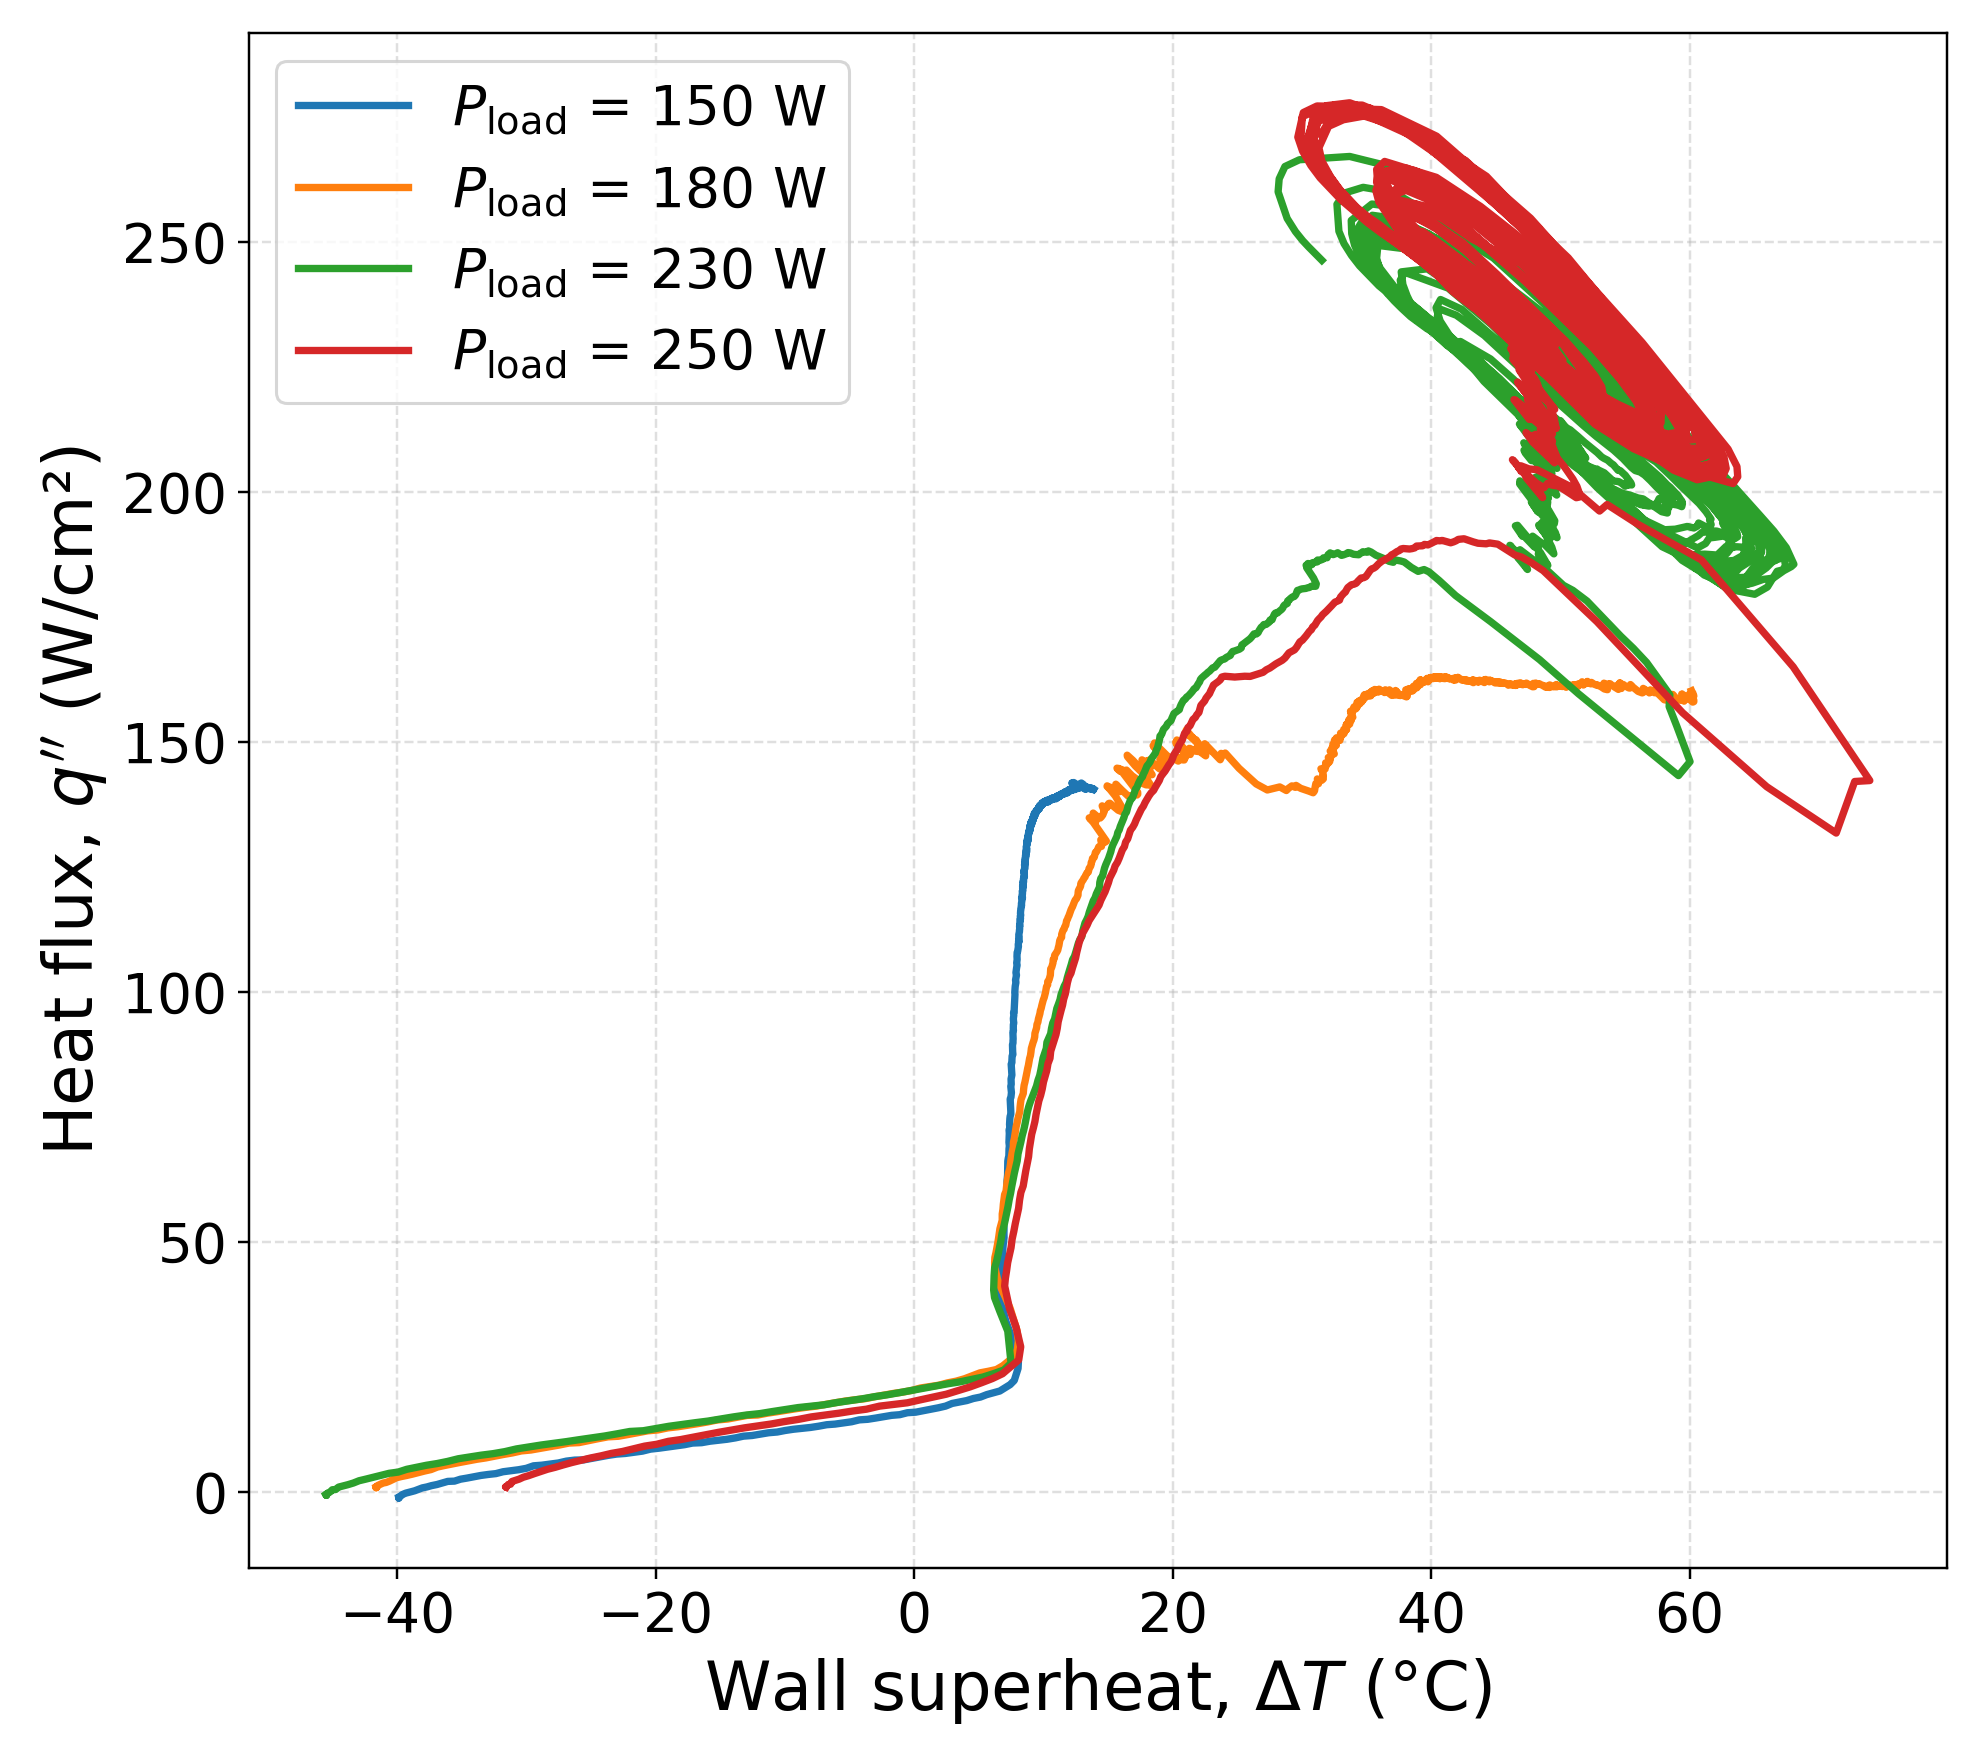
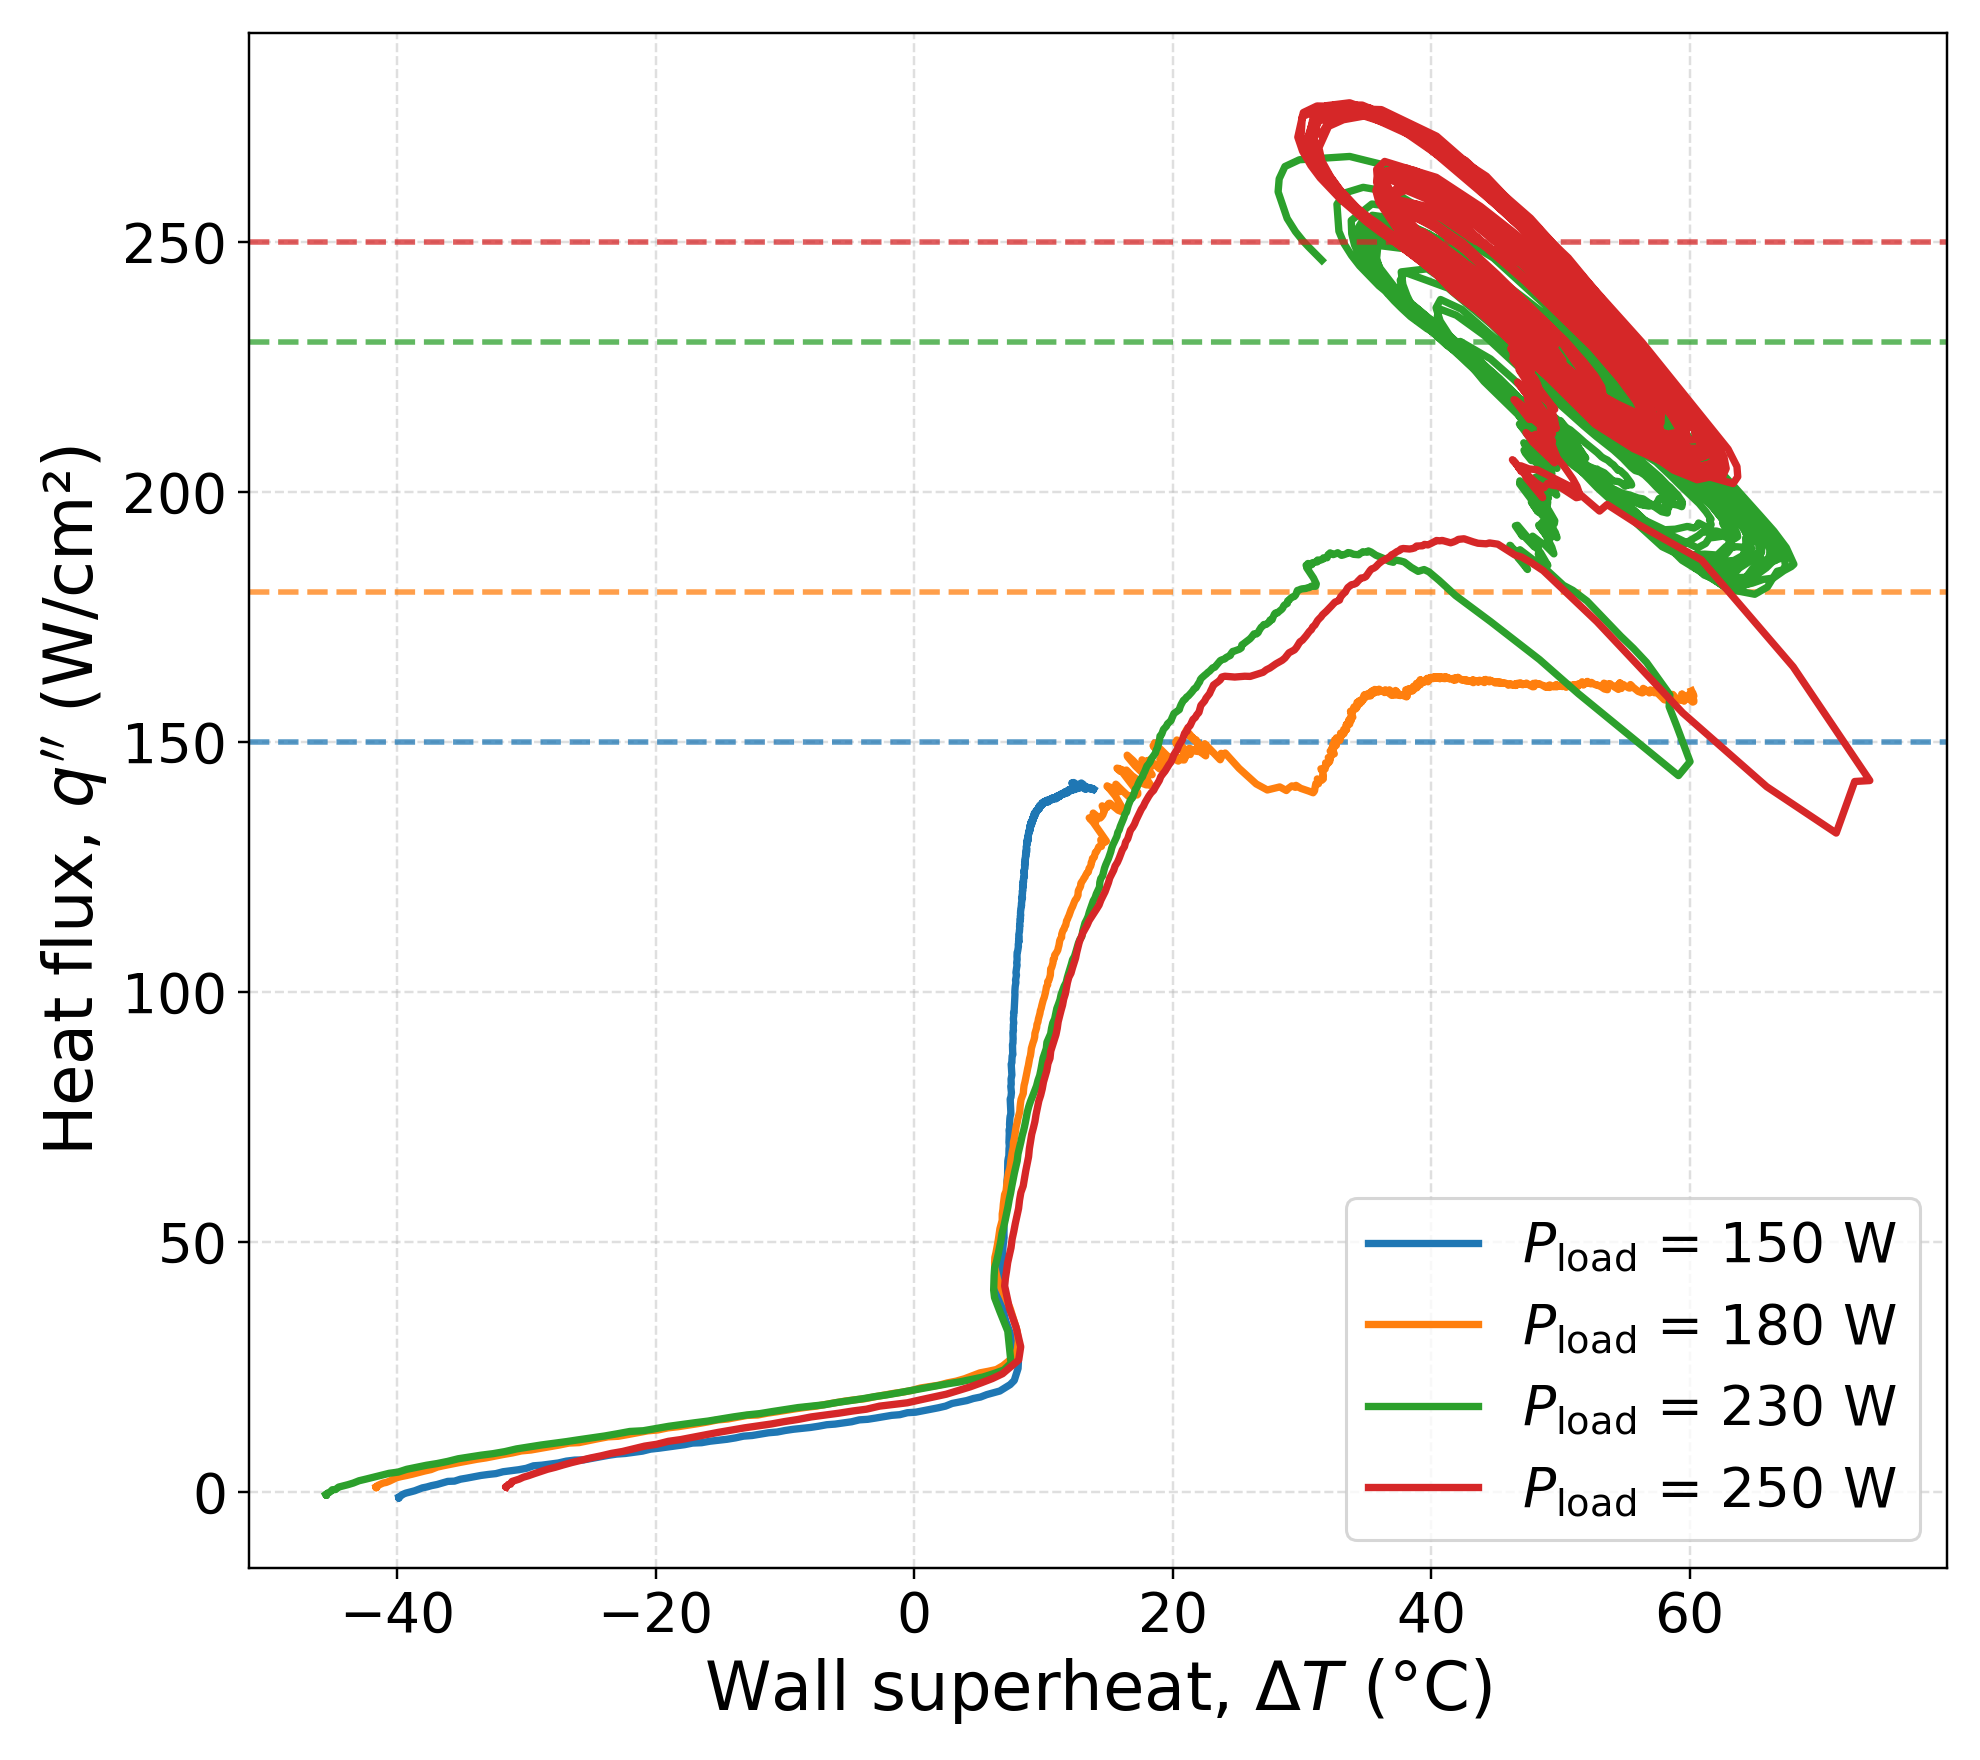
Add heat flux reference lines to comparison plots

diff --git a/scripts/run_multi_case_comparison.py b/scripts/run_multi_case_comparison.py
@@ -184,7 +184,16 @@ def plot_comparison(
         y = np.asarray(case["heat_flux_W_cm2"], dtype=float)
         finite = np.isfinite(x) & np.isfinite(y)
         step = max(1, downsample)
-        ax.plot(x[finite][::step], y[finite][::step], linewidth=2.4, label=case_label(case))
+        line = ax.plot(x[finite][::step], y[finite][::step], linewidth=2.4, label=case_label(case))[0]
+        power = case.get("applied_power_W")
+        if power is not None:
+            ax.axhline(
+                y=float(power),
+                color=line.get_color(),
+                linestyle="--",
+                linewidth=1.8,
+                alpha=0.75,
+            )
 
     ax.set_xlabel(x_label, fontsize=22)
     ax.set_ylabel("Heat flux, $q^{\\prime\\prime}$ (W/cm²)", fontsize=22)